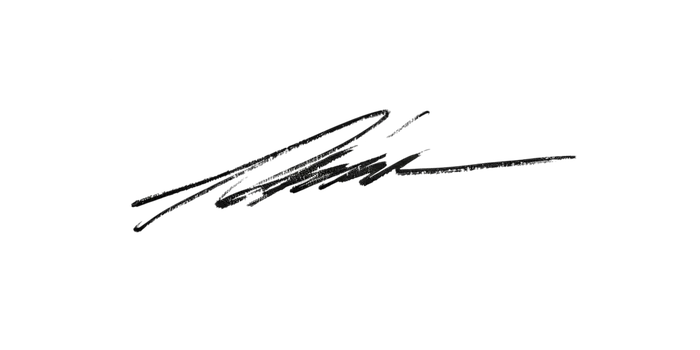
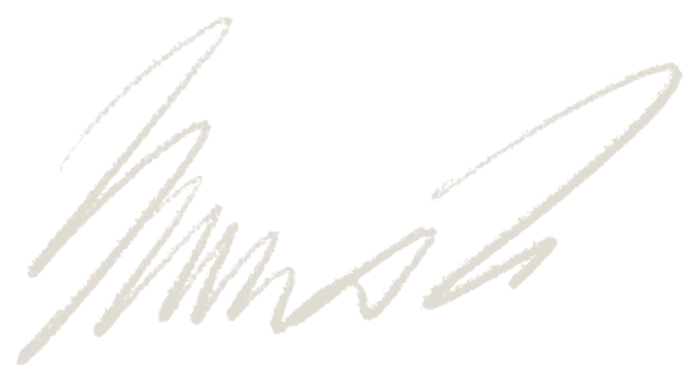
New signature in the site's colour; drop the stats block in PT
- signature.webp: Bruno's new signature, recoloured to the site's warm
  off-white (#e0dbd1) on transparent, pencil texture kept; the CSS
  invert filter is gone.
- About: the '5+ years / BR remote' stats render in EN only (in PT the
  client logos carry the proof). The count-up effect re-arms when the
  language switches.

Claude-Session: https://claude.ai/code/session_01B7JrVNW43a42TchhNdx2TT

diff --git a/app/globals.css b/app/globals.css
@@ -89,7 +89,8 @@ body.cursor-play #cursor-label svg{filter:drop-shadow(0 1px 3px rgba(0,0,0,.75))
 .hero-greeting{font-family:var(--font-franie),var(--font-inter),sans-serif;font-weight:24;font-size:clamp(52px,9vw,118px);color:#ece7dd;letter-spacing:-.02em;line-height:.9;user-select:none;opacity:1;flex:0 0 auto;}
 .hero-greeting em{font-variation-settings:'wght' 24,'ital' 100;font-style:normal;color:#bcae95;}
 .hero-signature{flex:0 0 auto;width:clamp(180px,26vw,340px);display:flex;align-items:center;justify-content:flex-end;opacity:0;animation:fadeUpDark .9s .75s cubic-bezier(.22,1,.36,1) forwards;}
-.hero-signature img{width:100%;opacity:.55;filter:invert(1) brightness(1.1);mix-blend-mode:normal;}
+/* the asset is already in the site's warm off-white (#e0dbd1) on transparent — no invert filter */
+.hero-signature img{width:100%;opacity:.62;}
 .hero-role{position:absolute;right:48px;bottom:80px;text-align:right;opacity:0;animation:fadeUpDark .8s .9s cubic-bezier(.22,1,.36,1) forwards;}
 .hero-role-line{font-size:10px;letter-spacing:.22em;text-transform:uppercase;color:#888;}
 .hg-line-subtitle{margin-top:16px;}

diff --git a/components/About.tsx b/components/About.tsx
@@ -71,7 +71,8 @@ export default function About() {
     io.observe(statsWrap);
 
     return () => io.disconnect();
-  }, []);
+    // the block only exists in EN: re-arm when the language switches
+  }, [lang]);
 
   return (
     <>
@@ -91,6 +92,8 @@ export default function About() {
               exists in one language), so late blocks get scrubbed too. */}
           {para3 && <Scrub className="about-text" range=".92 .5" text={para3} />}
         </div>
+        {/* EN only: in PT the client logos below carry the proof on their own */}
+        {lang === "en" && (
         <div className="about-stats" ref={statsWrapRef}>
           <div className="stat reveal reveal-d1">
             <div className="stat-num" data-count="5" data-suffix="+">
@@ -105,6 +108,7 @@ export default function About() {
             <div className="stat-lbl">{tr(dict.statRemote, lang)}</div>
           </div>
         </div>
+        )}
       </section>
 
       {/* eslint-disable @next/next/no-img-element */}
